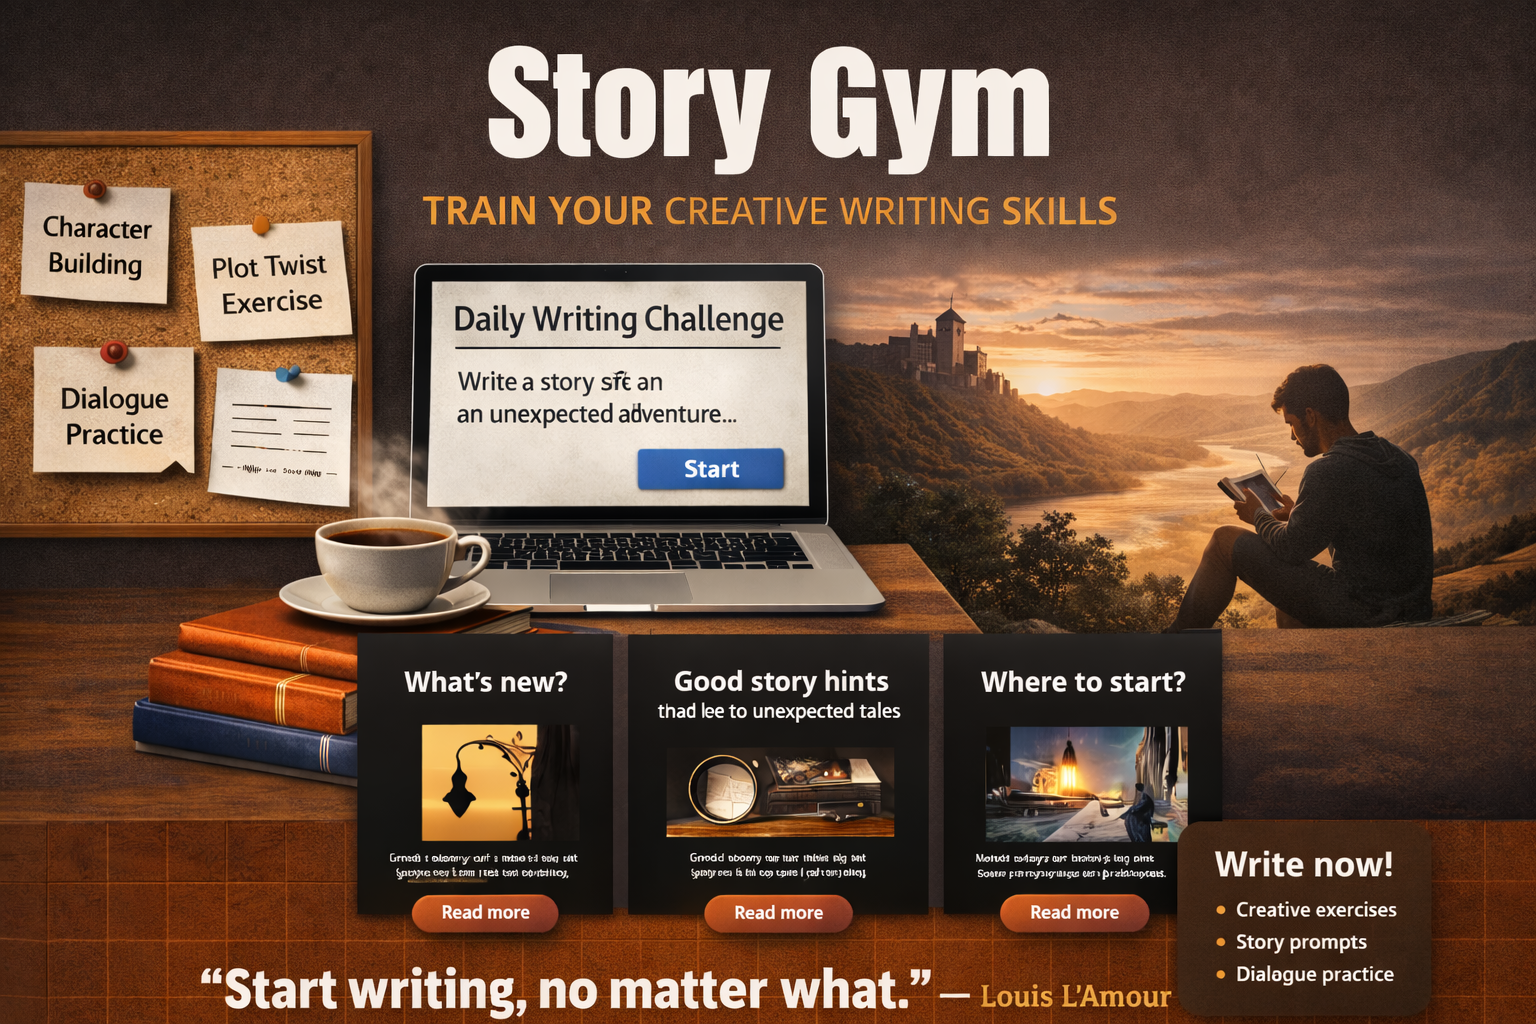
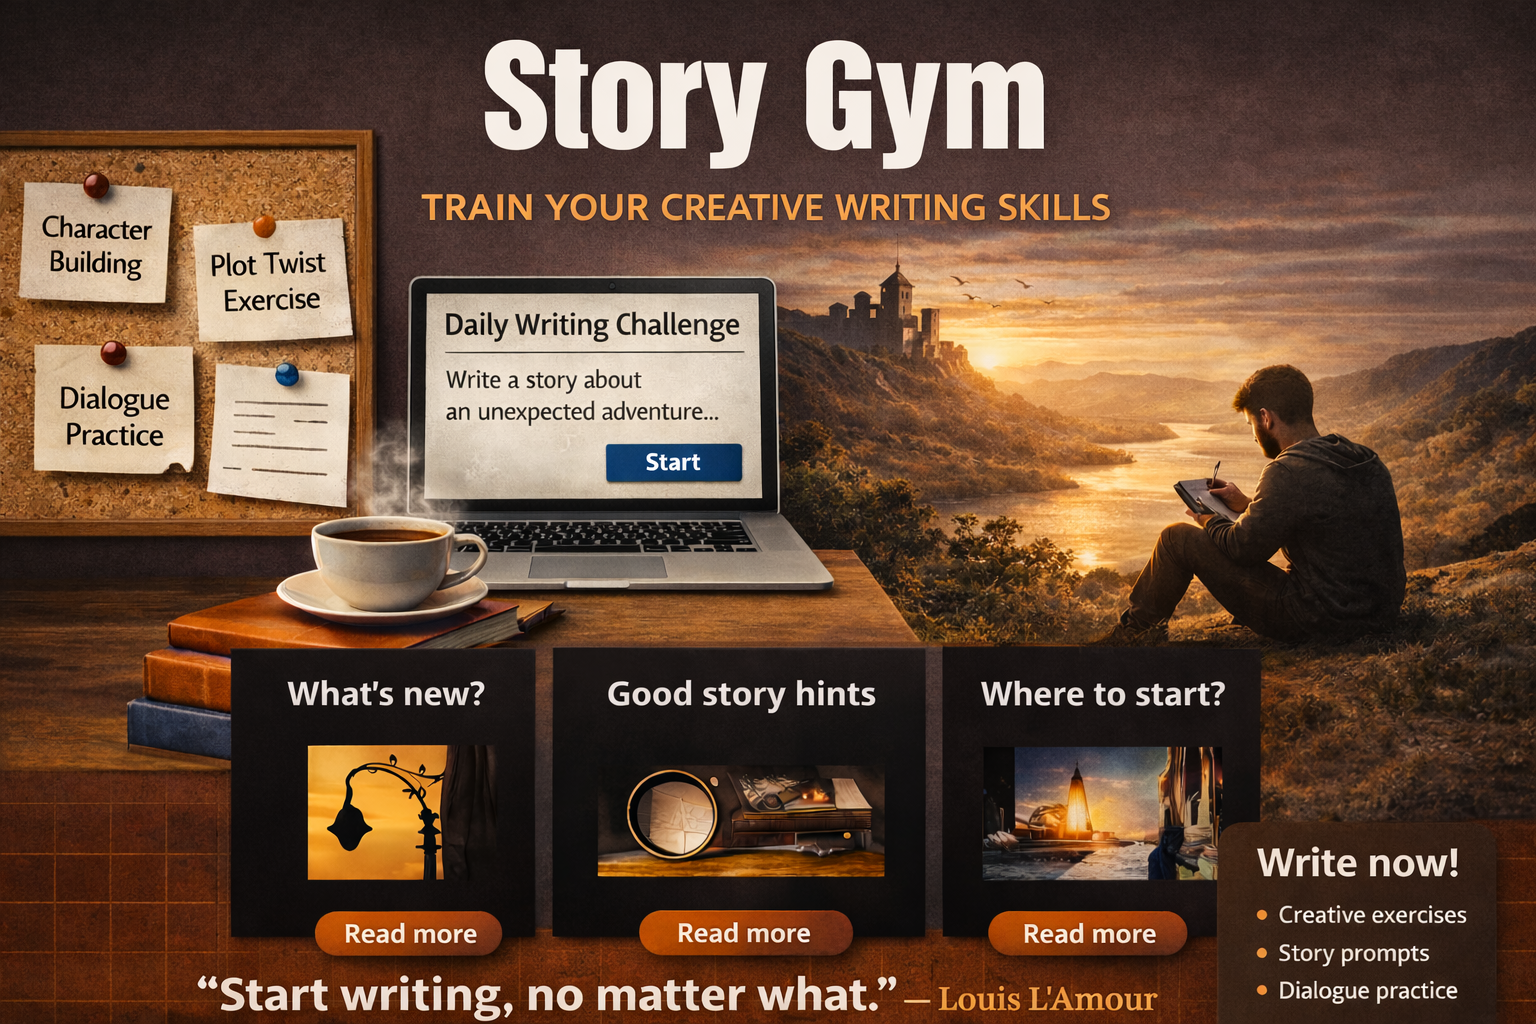
Debug 1 - Remove 'blob' from the link

diff --git a/design/html/index.html b/design/html/index.html
@@ -15,7 +15,7 @@
         <meta property="og:type" content="website">
         <meta property="og:site_name" content="Story Gym">
         <!-- REQUIRED image -->
-        <meta property="og:image" content="https://raw.githubusercontent.com/Kanareknie/Story-Gym/blob/main/assets/images/web-picture.png">
+        <meta property="og:image" content="https://raw.githubusercontent.com/Kanareknie/Story-Gym/main/assets/images/web-picture.png">
         <meta property="og:image:width" content="1200">
         <meta property="og:image:height" content="630">
         <meta property="og:image:type" content="image/png">
